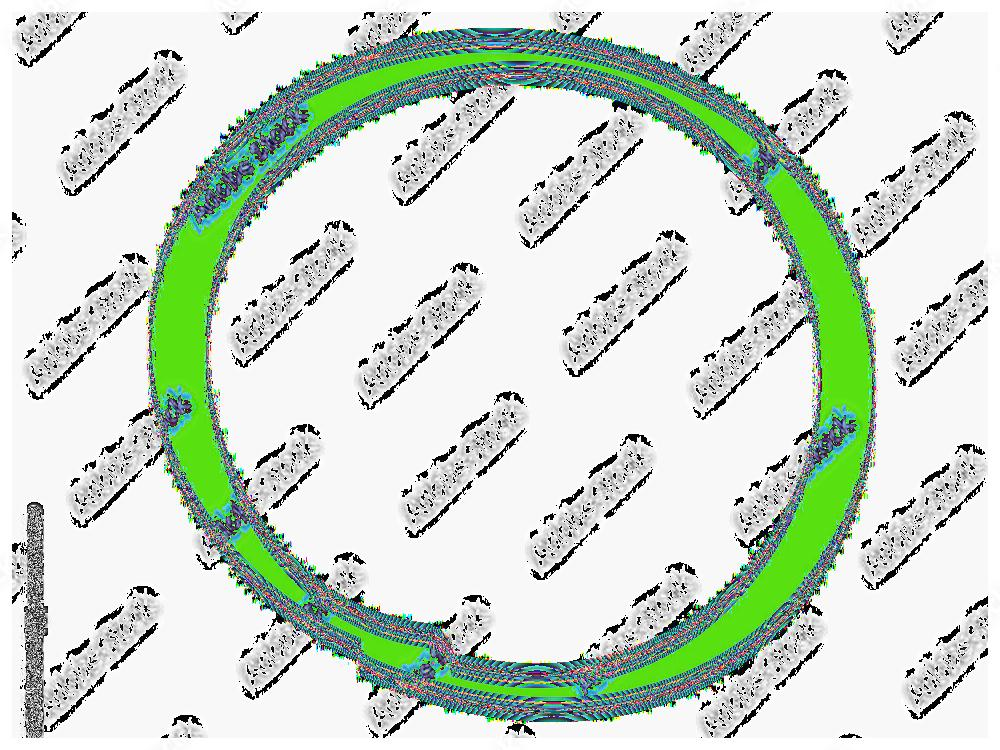
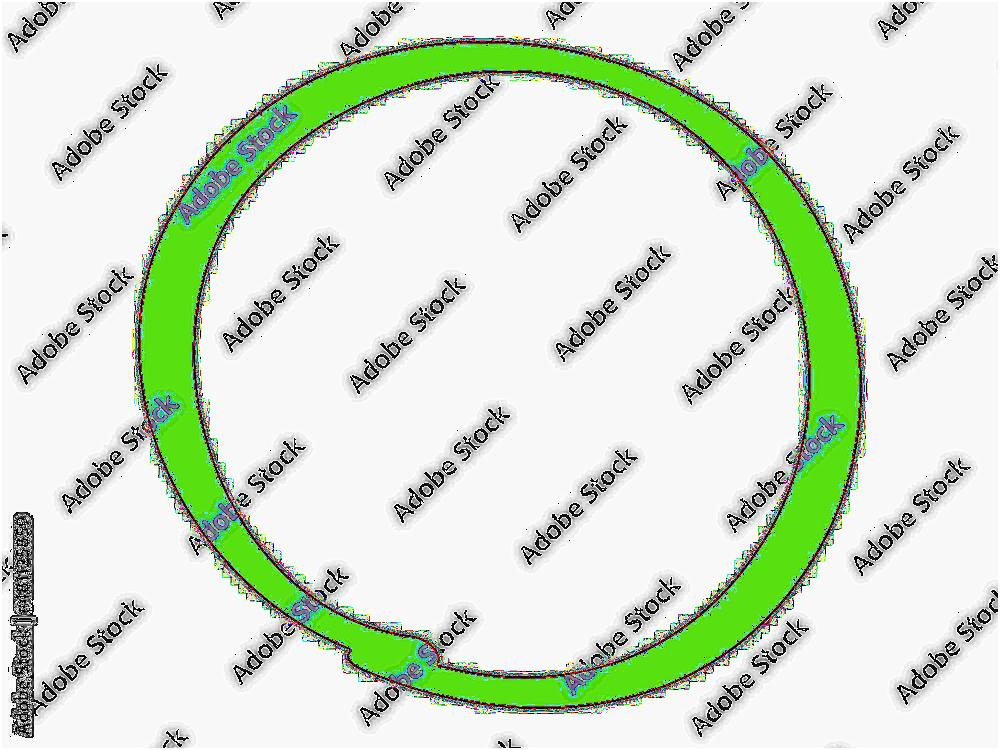
conv fix

diff --git a/process.py b/process.py
@@ -13,14 +13,20 @@ queue = cl.CommandQueue(ctx,properties=cl.command_queue_properties.PROFILING_ENA
 
 mf = cl.mem_flags
 # Create the kernel matrix for edge detection
-kernel = np.array([[-1, -1, -1, -1, -1],
+kernel_edge = np.array([[-1, -1, -1, -1, -1],
                      [-1,  2,  2,  2, -1],
                      [-1,  2,  8,  2, -1],
                      [-1,  2,  2,  2, -1],
                      [-1, -1, -1, -1, -1]])
 
-kernel = kernel.astype(np.float32).flatten()
+kernel_blur = np.array([[1, 1, 1, 1, 1],
+                     [1,  1,  1,  1, 1],
+                     [1,  1,  1,  1, 1],
+                     [1,  1,  1,  1, 1],
+                     [1, 1, 1, 1, 1]])/25
+kernel = kernel_edge.astype(np.float32)
 kernel_size = np.int32(kernel.shape[0])
+kernel = kernel.flatten()
 
 # Read the OpenCL kernel code from an external file
 with open("process.cl", "r") as kernel_file:
